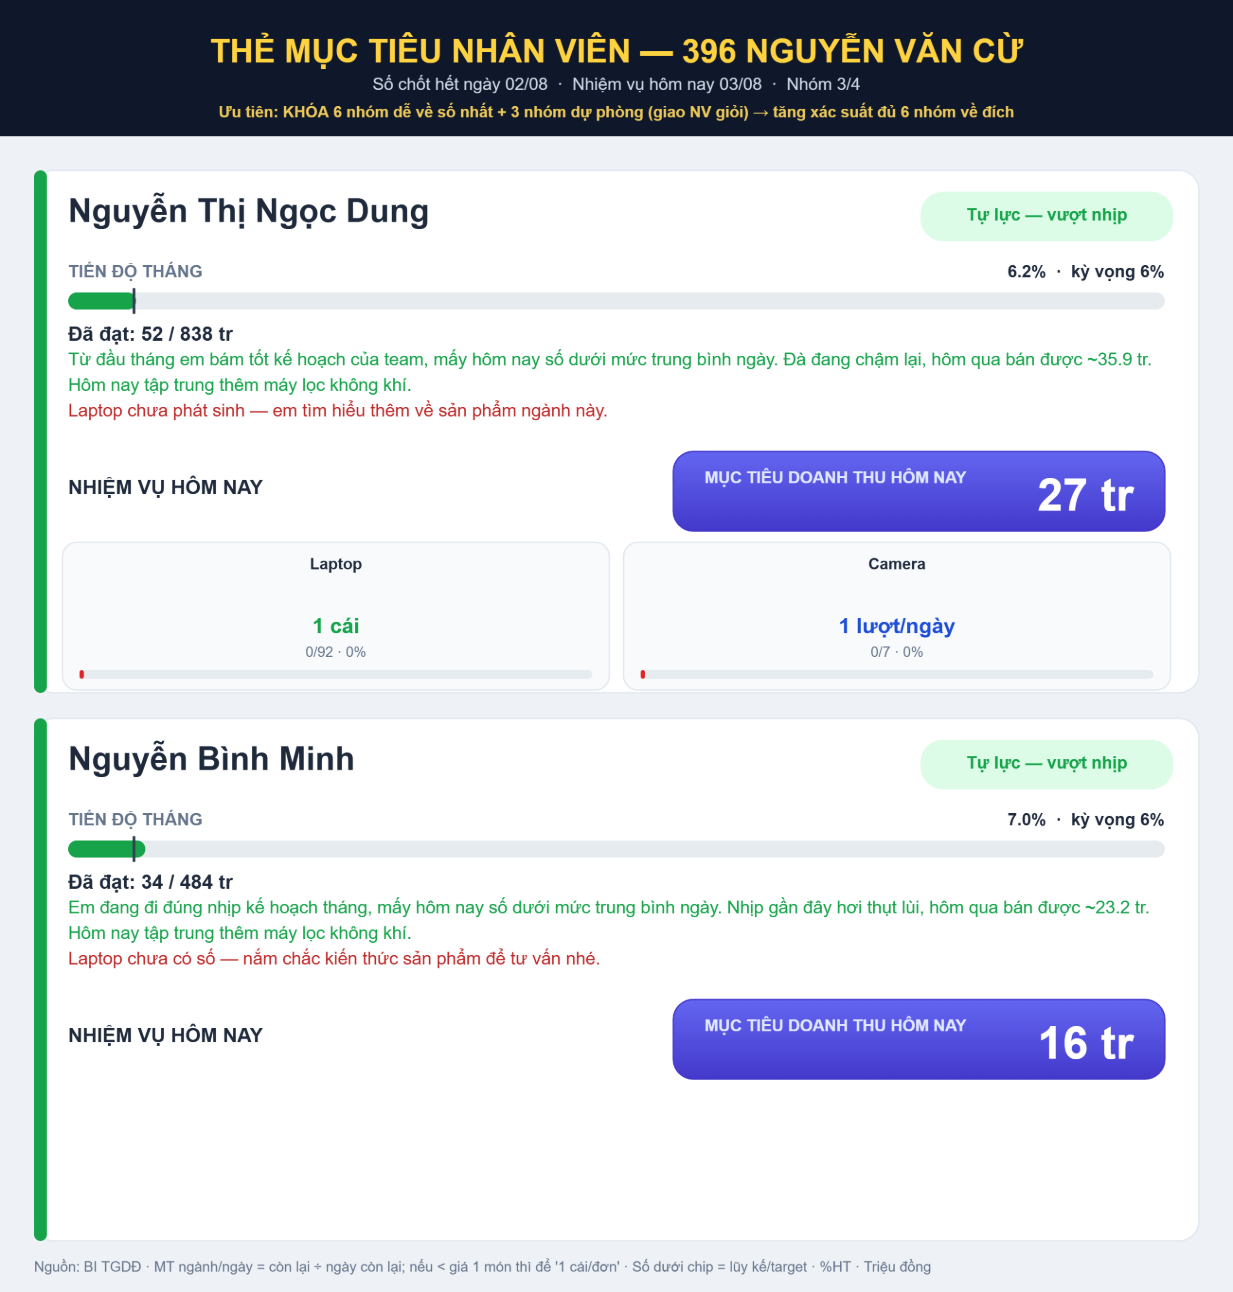
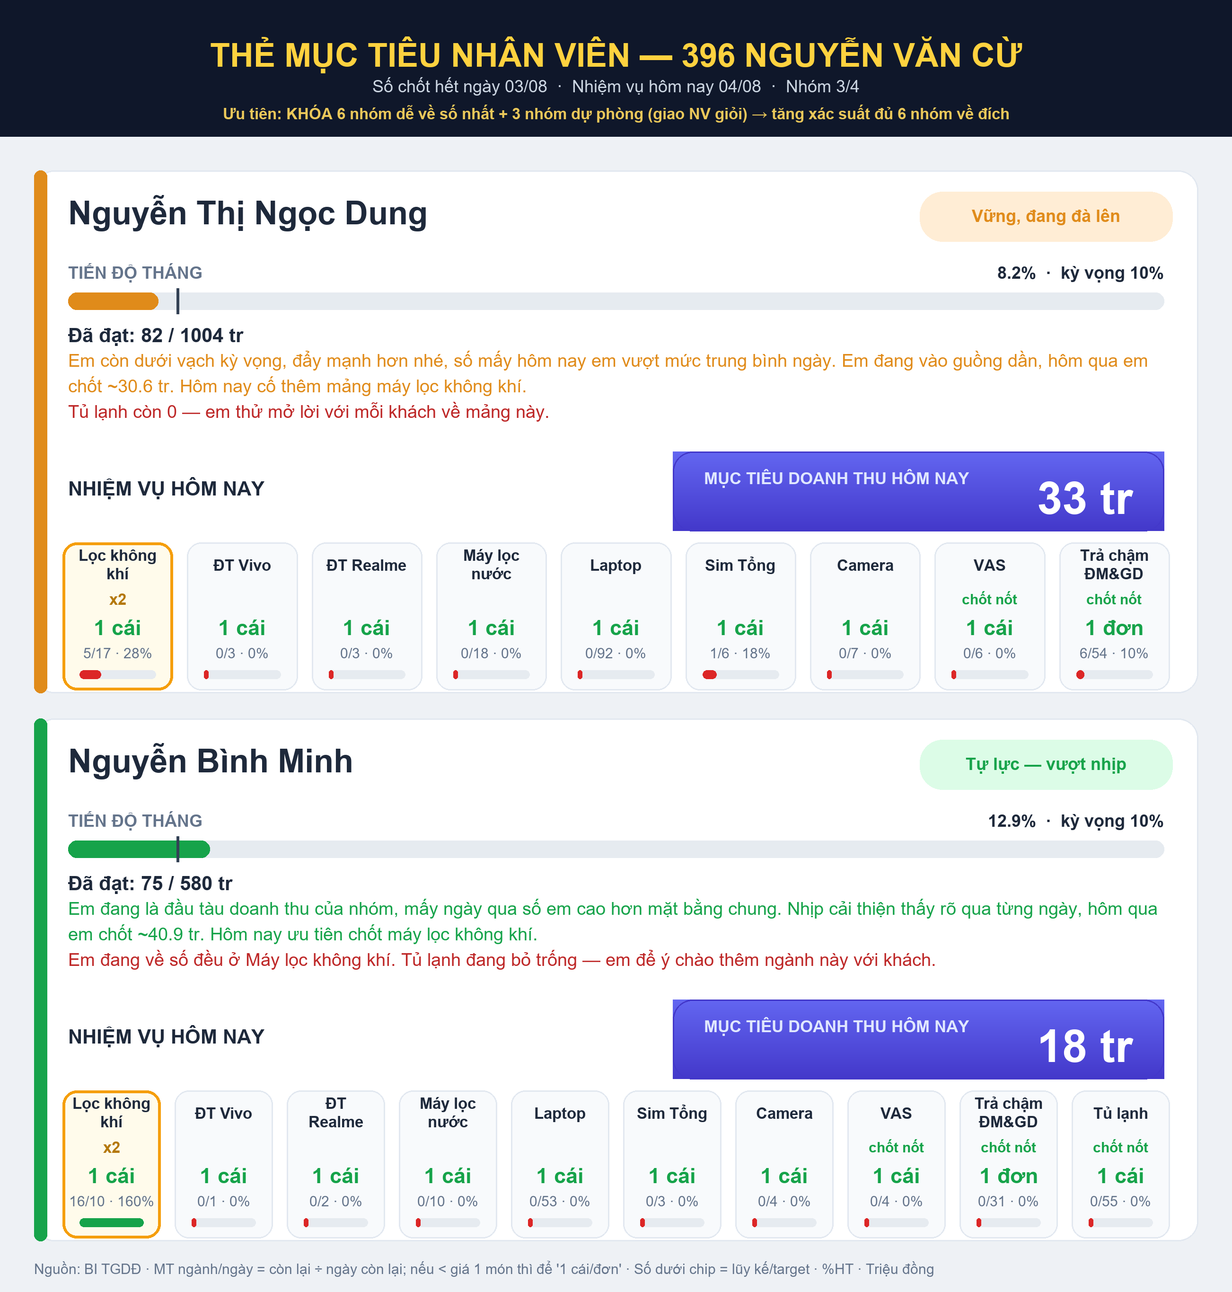
themuctieu + /bc: đổi hiển thị QTY '1 lượt/ngày' → '1 cái' (tránh đè chữ khi nhiều chip)
Đầu tháng thẻ đẩy tới 9-10 chip nên '1 lượt/ngày' quá dài, tràn/đè lên nhau.
Đổi sang '1 cái' cho gọn (áp cho Sim/Camera/VAS/Nạp rút). Kèm thẻ 04/08 dựng lại.

diff --git a/themuctieu.html b/themuctieu.html
@@ -266,14 +266,14 @@
         var items=[], used={};
         order.forEach(function(c){ if(used[c]) return; used[c]=1; var cc=cr[c]; if(!cc) return;
           var label=gdisp(c), ismlk=(c===mlkcat)?1:0;
-          if(isQty(c)){ items.push({label:label,disp:'1 lượt/ngày',chot:0,mlk:ismlk,lk:Math.round(cc.lk),tg:Math.round(cc.tg),ht:cc.ht}); return; }
+          if(isQty(c)){ items.push({label:label,disp:'1 cái',chot:0,mlk:ismlk,lk:Math.round(cc.lk),tg:Math.round(cc.tg),ht:cc.ht}); return; }
           var daily=r1(cc.rem/REM*w), up=unitOf(label); var disp = daily<up ? unitWord(label) : (daily.toFixed(1)+' tr');
           items.push({label:label,disp:disp,chot:0,mlk:ismlk,lk:Math.round(cc.lk),tg:Math.round(cc.tg),ht:cc.ht});
         });
         // P2: NV mạnh gánh thêm nhóm dự phòng
         if(color==='g'||color==='o'){ var bk = color==='g'?backup:backup.slice(0,2);
           bk.forEach(function(c){ if(used[c]||!cr[c]) return; var cc=cr[c]; used[c]=1;
-            if(isQty(c)){ items.push({label:gdisp(c),disp:'1 lượt/ngày',chot:1,mlk:0,lk:Math.round(cc.lk),tg:Math.round(cc.tg),ht:cc.ht}); return; }
+            if(isQty(c)){ items.push({label:gdisp(c),disp:'1 cái',chot:1,mlk:0,lk:Math.round(cc.lk),tg:Math.round(cc.tg),ht:cc.ht}); return; }
             var daily=r1(cc.rem/REM*w), up=unitOf(gdisp(c)); var disp = daily<up ? unitWord(gdisp(c)) : (daily.toFixed(1)+' tr');
             items.push({label:gdisp(c),disp:disp,chot:1,mlk:0,lk:Math.round(cc.lk),tg:Math.round(cc.tg),ht:cc.ht});
           });
